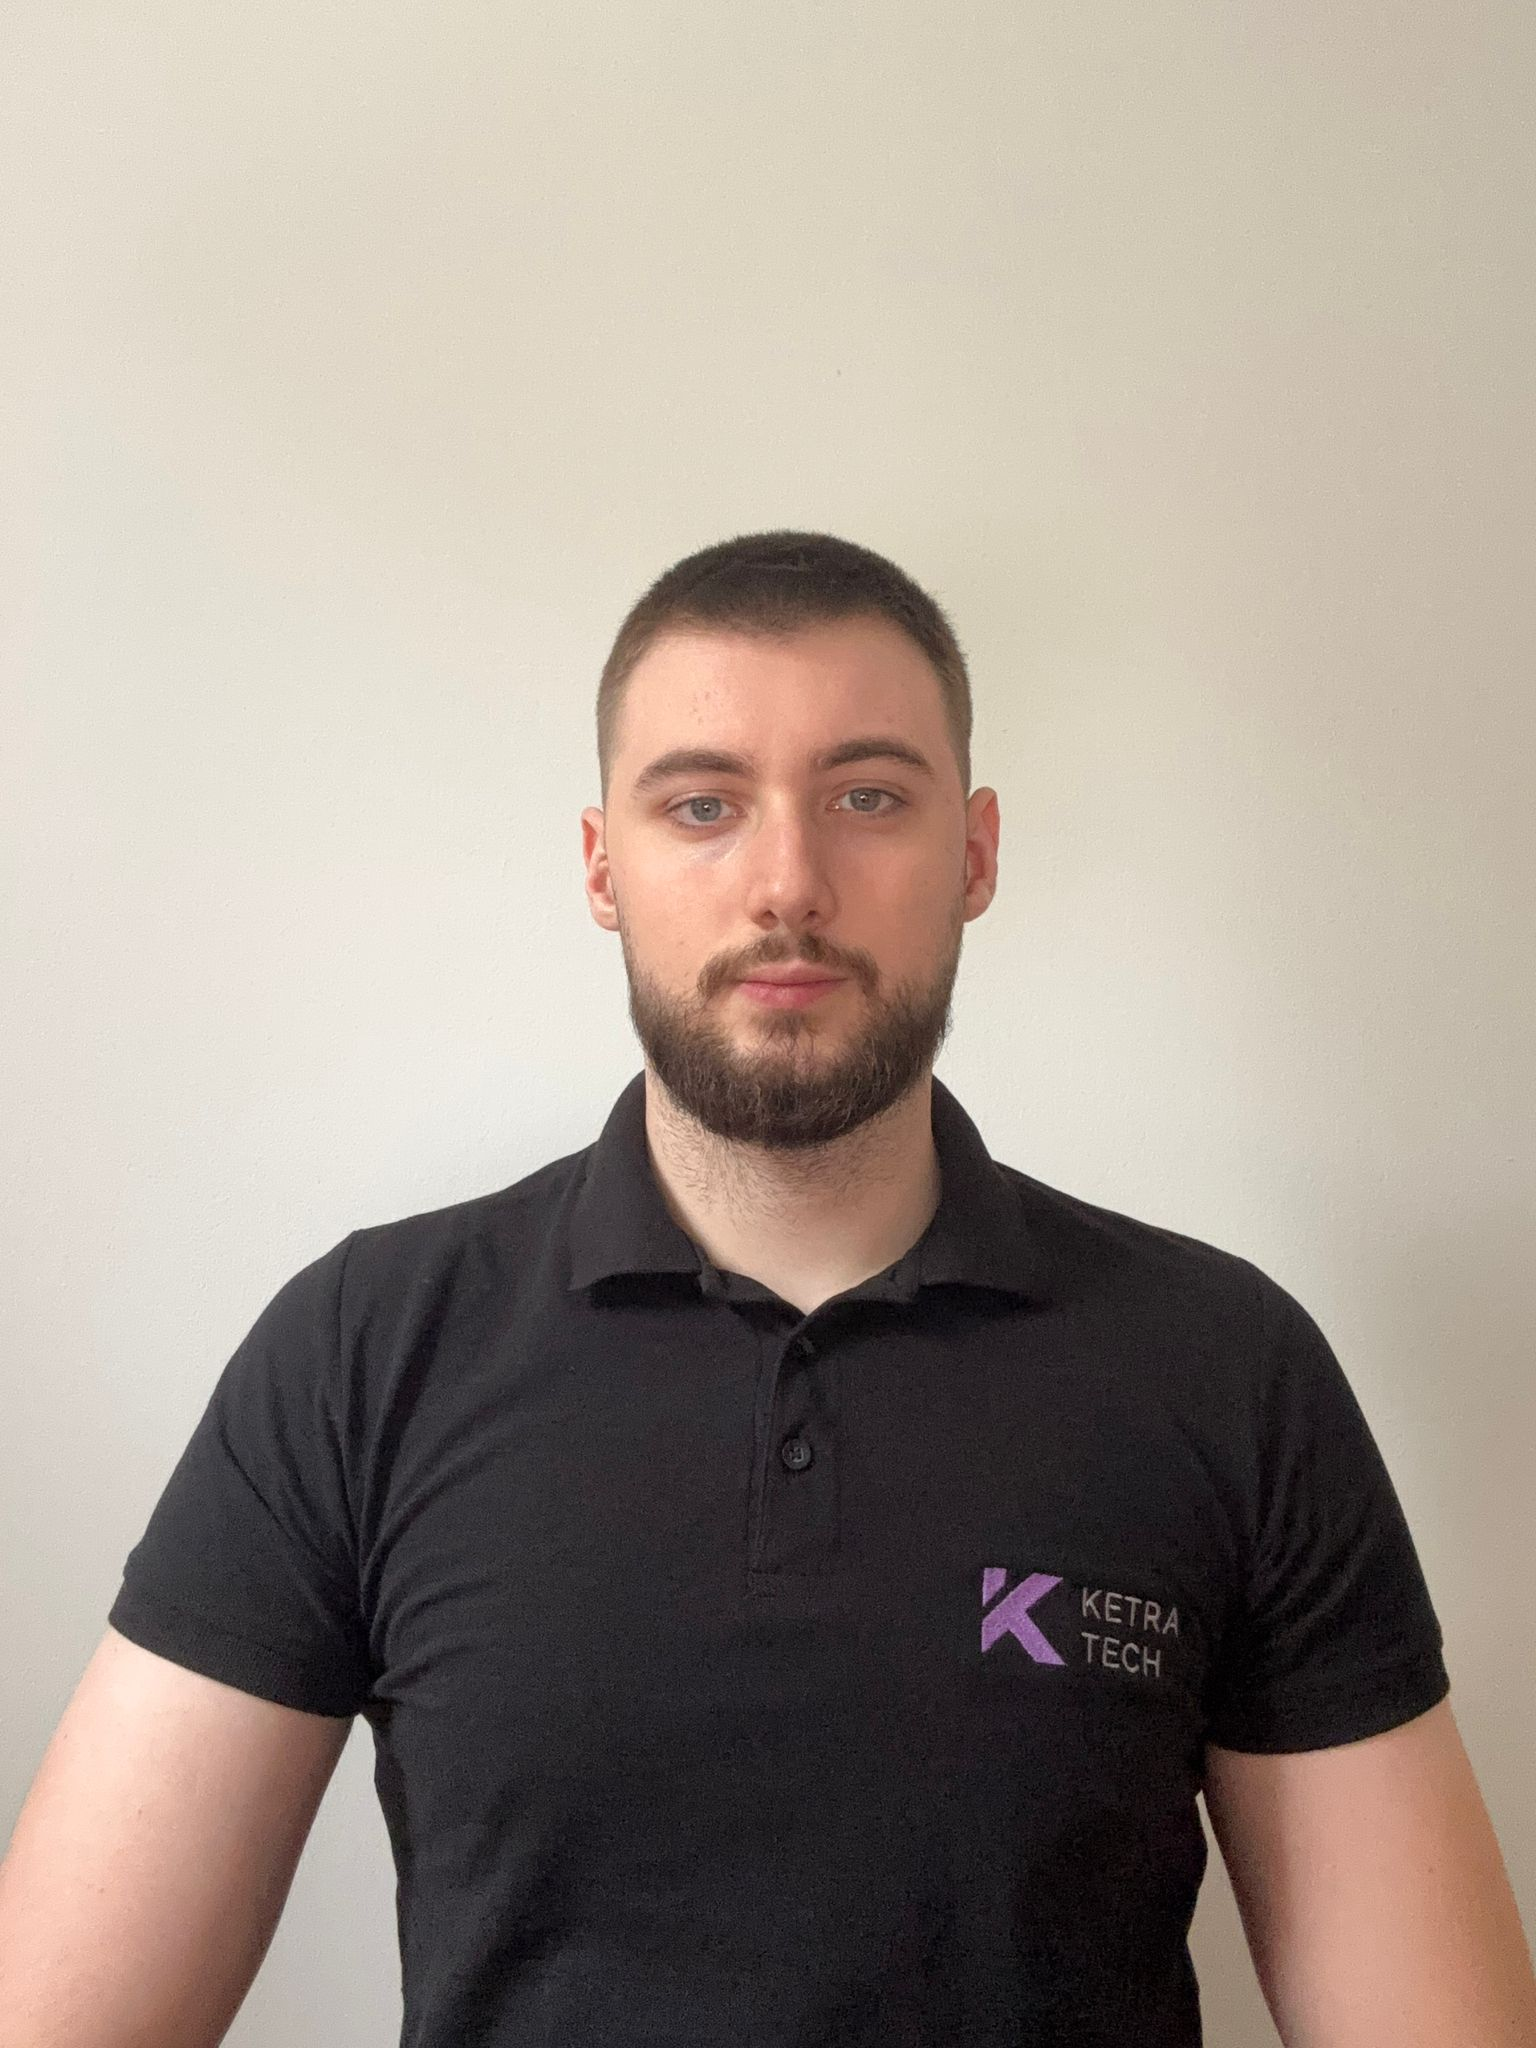
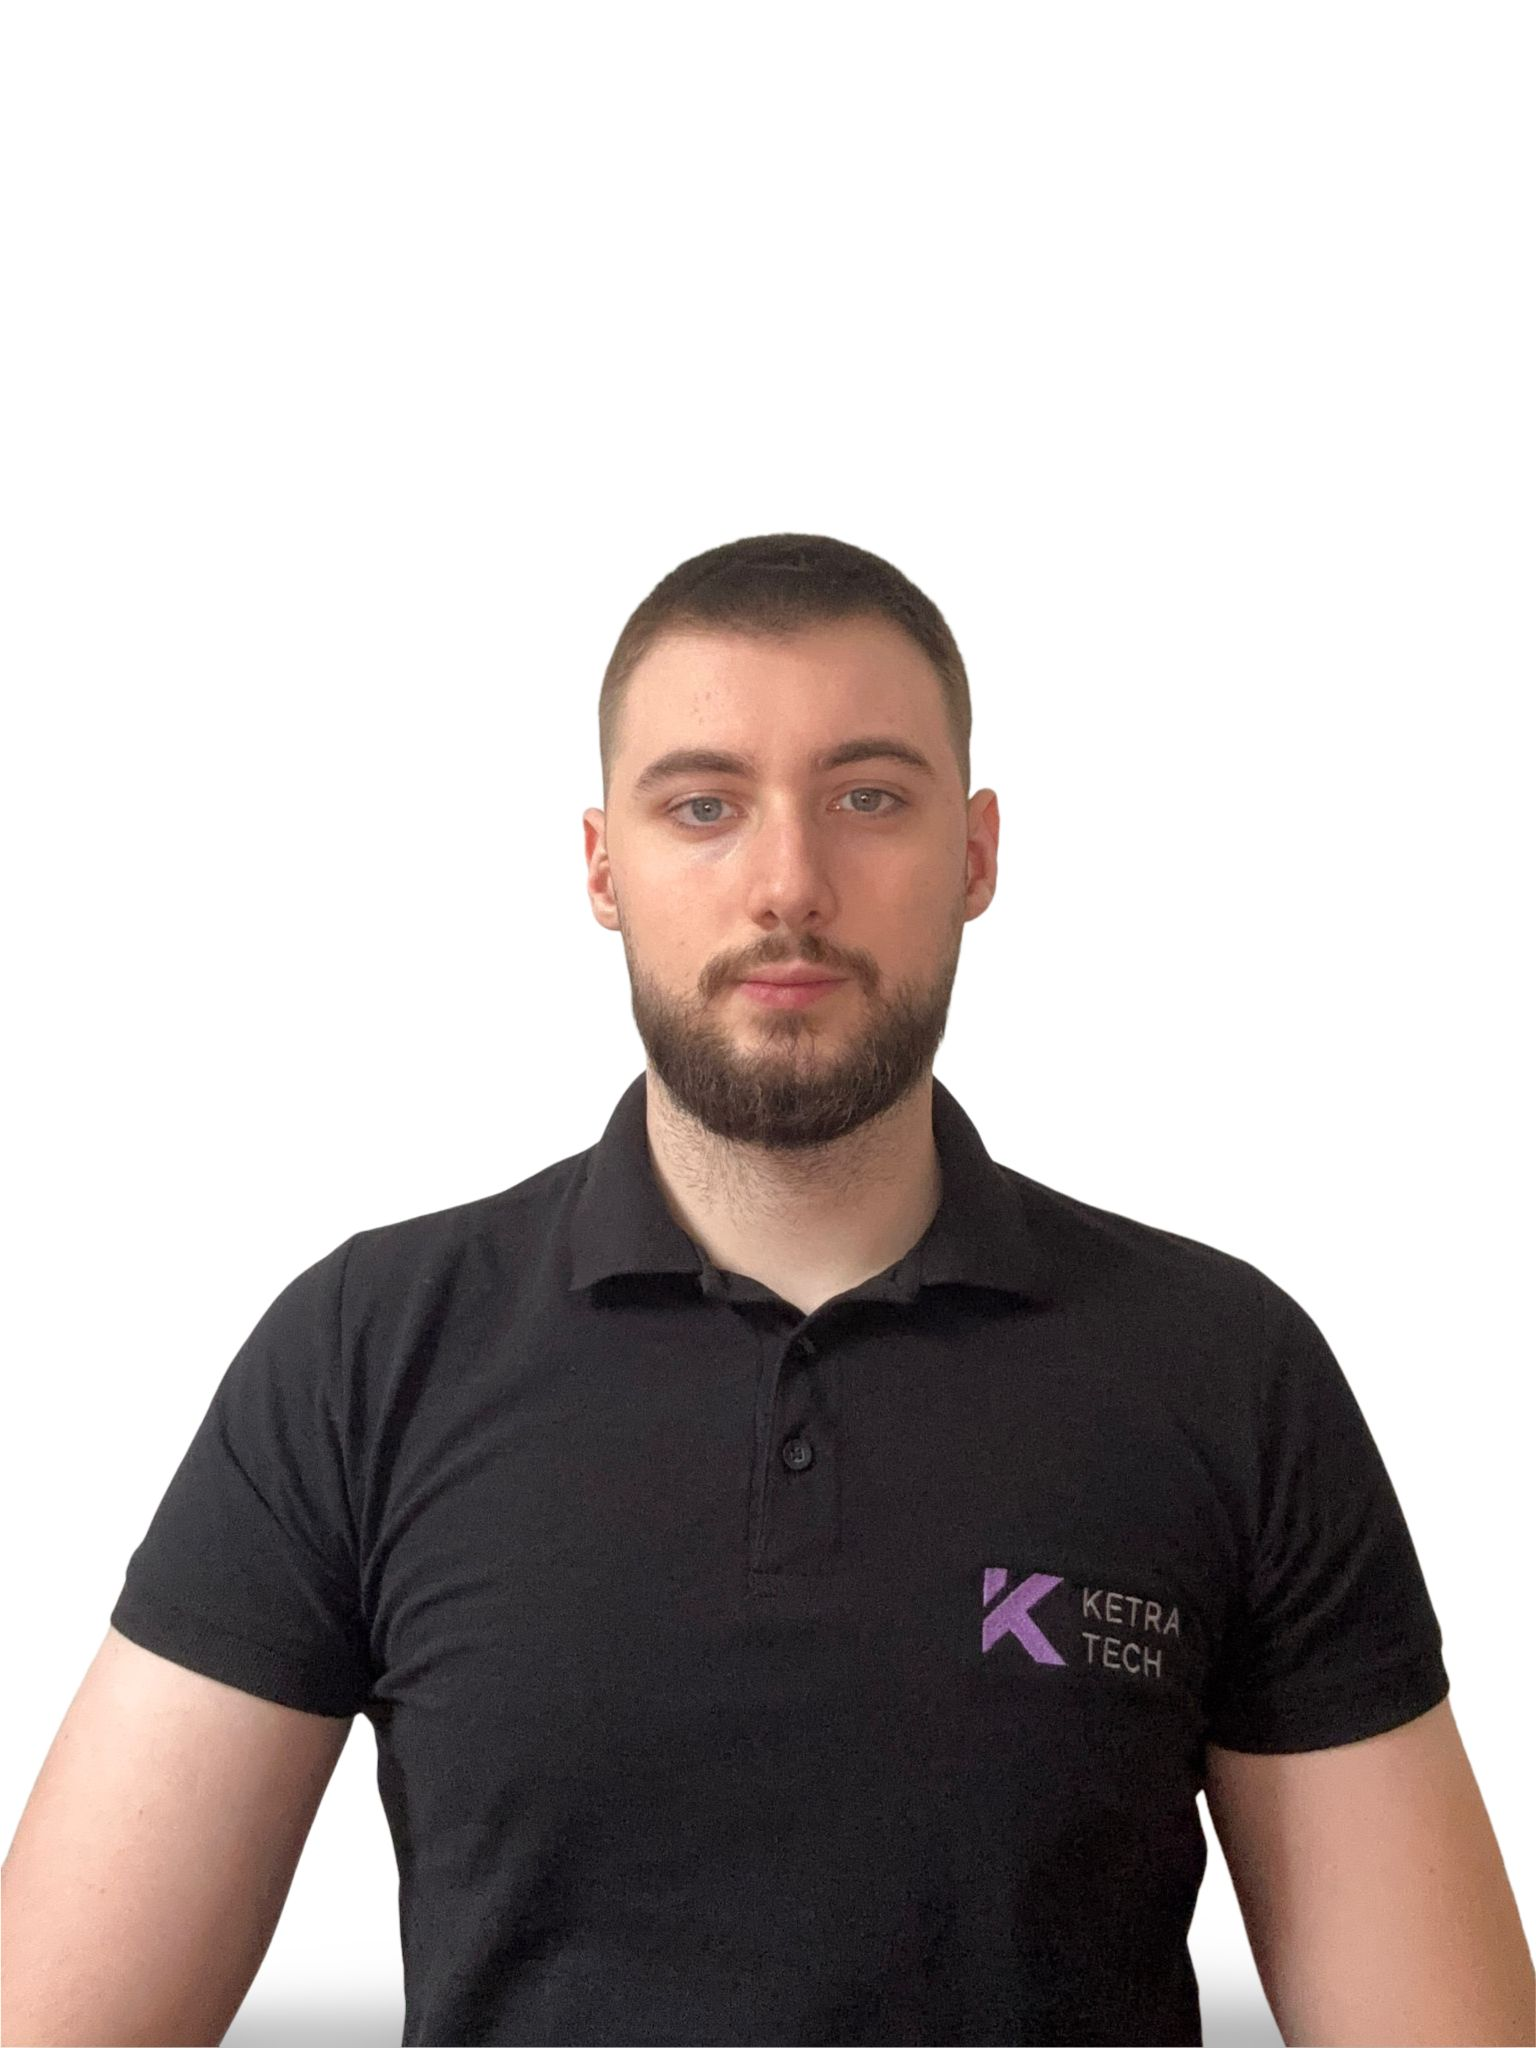
minor updates

diff --git a/assets/css/styles.css b/assets/css/styles.css
@@ -1358,6 +1358,10 @@ input[type="email"]:focus {
   margin-bottom: 20px;
 }
 
+.footerp {
+  font-size: 1.5rem;
+}
+
 @media (max-width: 767px) {
   .footer-section .row {
     flex-direction: column;

diff --git a/footer.php b/footer.php
@@ -7,7 +7,7 @@
         <hr class="divider">
         <div class="row">
             <div class="col-md-3 mb-4">
-                <h4>LEAVE YOUR MAIL AND STAY UP TO DATE!</h4>
+                <p class="footerp">LEAVE YOUR MAIL AND STAY UP TO DATE!</p>
                 <form id="subscribeForm">
                     <?php
                         if (!isset($_SESSION['csrf_token'])) {
@@ -36,7 +36,7 @@
                 </div>
             </div>
             <div class="col-md-3 mb-4">
-                <h4>COMPANY</h4>
+                <p class="footerp">COMPANY</p>
                 <br>
                 <ul class="list-unstyled">
                     <li><a href="/aboutus" class="text-muted">About us</a></li>
@@ -46,14 +46,14 @@
                 </ul>
             </div>
             <div class="col-md-3 mb-4">
-                <h4>CASE STUDIES</h4>
+                <p class="footerp">CASE STUDIES</p>
                 <br>
                 <ul class="list-unstyled">
                     <li><a href="#" class="text-muted">Coming Soon</a></li>
                 </ul>
             </div>
             <div class="col-md-3 mb-4">
-                <h4>CONTACT</h4>
+                <p class="footerp">CONTACT</p>
                 <br>
                 <ul class="list-unstyled">
                     <li class="text-muted">+381 65 123456</li>

diff --git a/header.php b/header.php
@@ -8,13 +8,13 @@ session_start();
   <meta name="viewport" content="width=device-width, initial-scale=1.0">
   <title><?php echo isset($page_title) ? $page_title : 'KetraTech'; ?></title>
   <link href="/assets/css/bootstrap/bootstrap.min.css" rel="stylesheet">
-  <link rel="stylesheet" href="https://cdnjs.cloudflare.com/ajax/libs/font-awesome/5.15.4/css/all.min.css">
+  <link rel="stylesheet" href="/assets/css/font-awesome.min.css?v=5.15.4">
   <link rel="stylesheet" href="/assets/css/styles.css?v=1.0.3">
   <link rel="icon" type="image/x-icon" href="favicon.ico">
   <meta name="description" content="<?php echo isset($meta_description) ? $meta_description : 'Custom websites tailored to your business goals. Whether you\'re a startup or enterprise — we deliver clean, modern, and scalable solutions.'; ?>">
 </head>
 
-<body>
+<body style="background-color:rgb(127, 28, 189);">
     <header>
         <nav class="navbar navbar-expand-lg">
             <div class="container">

diff --git a/aboutus.php b/aboutus.php
@@ -170,7 +170,7 @@ include_once('header.php');
             </div>
             <div class="col-12 col-sm-6 col-md-4">
                 <div class="image-container">
-                    <img src="img/team_img.avif" alt="Team Member" class="img-fluid shadow" style="object-position: center;">
+                    <img src="img/uros2.jpg" alt="Team Member" class="img-fluid shadow" style="object-position: center;">
                     <div class="overlay">
                         <h3>Title 1</h3>
                         <p>Subtitle 1</p>

diff --git a/404.php b/404.php
@@ -1,0 +1,9 @@
+<link rel="stylesheet" href="/assets/css/error-page.css">
+<div class="background-animation">
+    <div class="circle"></div>
+    <div class="circle"></div>
+    <div class="circle"></div>
+</div>
+<h1>404 Not Found.</h1>
+<p>We were unable to process your request. Please try again later.</p>
+<a href="/">Go back to homepage</a>
